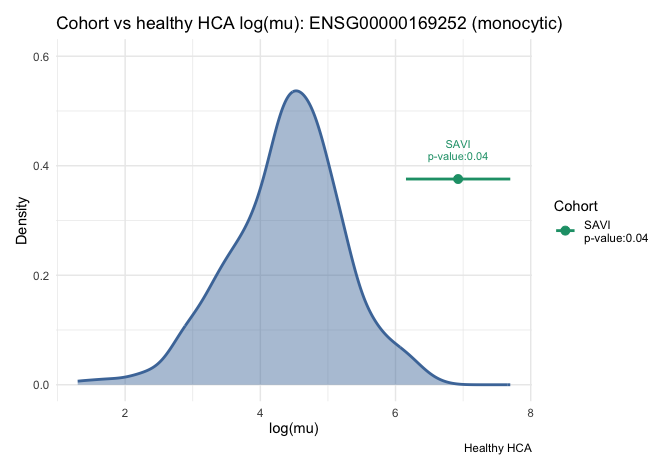
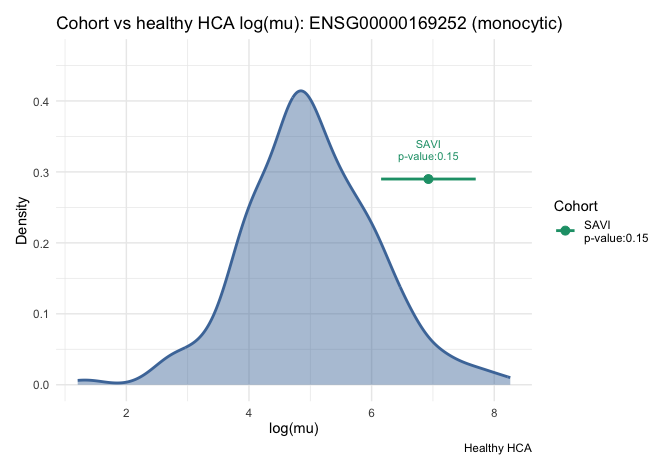
update vignette

diff --git a/vignettes/cohort-expression-edger-native.md b/vignettes/cohort-expression-edger-native.md
@@ -31,25 +31,22 @@ gene <- "ENSG00000169252"
 ref_name <- "___hca_ref_sample___"
 ```
 
-## Counts (Ensembl ids)
+## Map gene name to Ensembl ids
 
 ``` r
 data(savi_mono, overwrite = TRUE)
 
-counts <- as.matrix(GetAssayData(savi_mono, layer = "counts"))
-if (!all(grepl("^ENSG", rownames(counts)))) {
-  ensembl <- mapIds(
-    org.Hs.eg.db,
-    keys = rownames(counts),
-    column = "ENSEMBL",
-    keytype = "SYMBOL",
-    multiVals = "first"
-  )
-  ok <- !is.na(ensembl) & !duplicated(ensembl)
-  counts <- counts[ok, , drop = FALSE]
-  rownames(counts) <- unname(ensembl[ok])
-  savi_mono <- CreateSeuratObject(counts, meta.data = savi_mono[[]])
-}
+ensembl <- mapIds(
+  org.Hs.eg.db,
+  keys = rownames(savi_mono),
+  column = "ENSEMBL",
+  keytype = "SYMBOL",
+  multiVals = "first"
+)
+ok <- !is.na(ensembl) & !duplicated(ensembl)
+savi_mono <- savi_mono[ok, , drop = FALSE]
+rownames(savi_mono) <- ensembl[ok] |> unname()
+  
 ```
 
 ## Joint TMMwsp with one HCA library
@@ -116,16 +113,9 @@ log_mu <- estimate + log_E_hca
 fit_hca <- load_expression_fit(cell_type = cell_type, gene_ensg = gene)
 draws <- expression_draws(
   fit_hca,
-  newdata = build_newdata_grid(
-    fit_hca,
-    disease_groups = "Normal",
-    tissue_groups = "blood",
-    assay_groups = "10x Genomics 3"
-  ),
-  quantity = "linpred",
-  marginalise = "mean"
+  newdata = build_newdata_grid(fit_hca, tissue_groups = "blood" )
 )
-hca <- summarize_posterior_draws(draws, value = log_mu)
+hca <- summarize_posterior_draws(draws)
 ```
 
 ## Welch test
